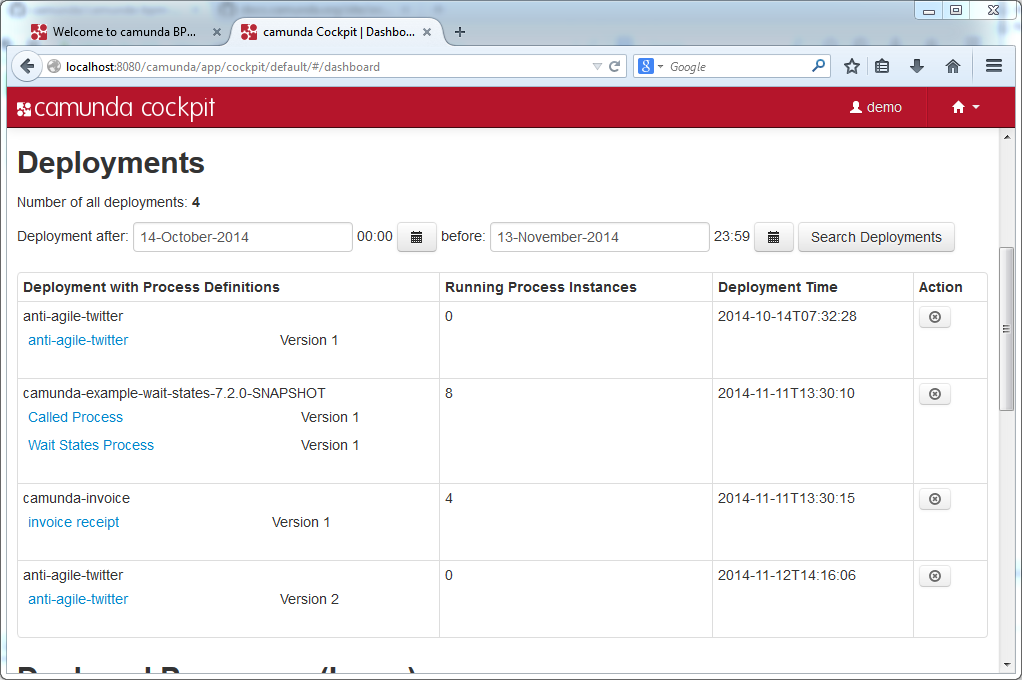
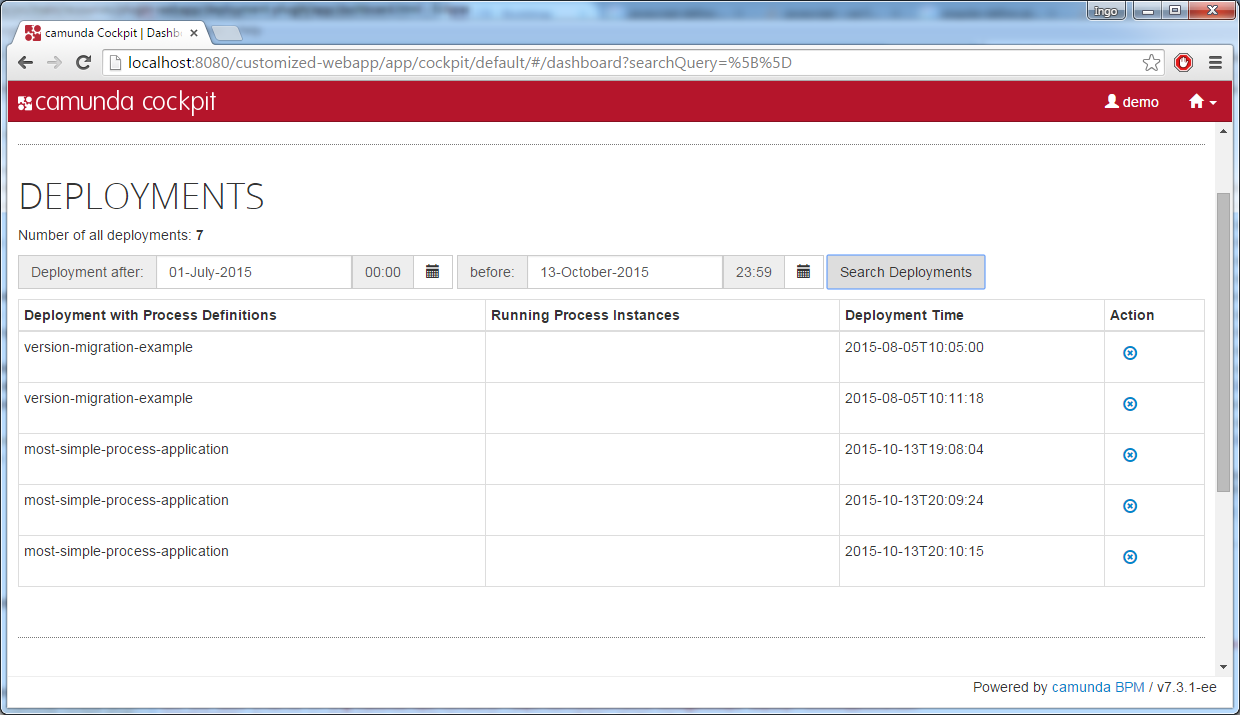
migrate to camunda 7.3

diff --git a/cockpit-plugin-deployments/src/main/resources/plugin-webapp/deployment-plugin/app/dashboard.html b/cockpit-plugin-deployments/src/main/resources/plugin-webapp/deployment-plugin/app/dashboard.html
@@ -3,23 +3,29 @@
     <p>Number of all deployments: <b>{{deploymentCounter.count}}</b>
     </p>
     <form class="form-inline" ng-submit="findDeployments();">
-        <div class="control-group">
-           <p class="input-group">
-           Deployment after: 
-            <input type="text" class="form-control" placeholder="deployed after" datepicker-popup="{{format}}" ng-model="deployedAfter" is-open="openedDeployedAfter" datepicker-options="dateOptions" date-disabled="disabled(date, mode)" close-text="Close" />
-              00:00 <span class="input-group-btn">
-                <button type="button" class="btn btn-default" ng-click="open($event, 'openedDeployedAfter')"><i class="icon-calendar"></i></button>
-              </span>
-            before: 
-            <input type="text" class="form-control" placeholder="deployed before" datepicker-popup="{{format}}" ng-model="deployedBefore" is-open="openedDeployedBefore" datepicker-options="dateOptions" date-disabled="disabled(date, mode)" close-text="Close" />
-              23:59 <span class="input-group-btn">
-                <button type="button" class="btn btn-default" ng-click="open($event, 'openedDeployedBefore')"><i class="icon-calendar"></i></button>
-              </span>
-            <button type="submit" name="Search" class="btn">Search Deployments</button>
-          </p>
-        </div>
+      <div class="input-group">
+        <span class="input-group-addon">Deployment after:</span>
+        <input type="text" class="form-control" placeholder="deployed after" datepicker-popup="{{format}}" ng-model="deployedAfter" is-open="openedDeployedAfter" datepicker-options="dateOptions" date-disabled="disabled(date, mode)" close-text="Close" />
+        <span class="input-group-addon ng-scope">00:00</span> 
+        <span class="input-group-btn ng-scope">
+          <button type="button" class="btn btn-default" ng-click="open($event, 'openedDeployedAfter')"><span class="glyphicon glyphicon-calendar" aria-hidden="true"></span></button>
+        </span>
+      </div>
+      <div class="input-group">
+        <span class="input-group-addon">before:</span> 
+        <input type="text" class="form-control" placeholder="deployed before" datepicker-popup="{{format}}" ng-model="deployedBefore" is-open="openedDeployedBefore" datepicker-options="dateOptions" date-disabled="disabled(date, mode)" close-text="Close" />
+        <span class="input-group-addon">23:59</span> 
+        <span class="input-group-btn">
+          <button type="button" class="btn btn-default" ng-click="open($event, 'openedDeployedBefore')"><span class="glyphicon glyphicon-calendar" aria-hidden="true"></span></button>
+        </span>
+      </div>
+      <div class="input-group">
+        <span class="input-group-btn">
+          <button type="submit" name="Search" class="btn">Search Deployments</button>
+        </span>
+      </div>
     </form>
-    
+  <p>
 <style>.table-no-border>thead>tr>th, 
 .table-no-border>tbody>tr>th, 
 .table-no-border>tfoot>tr>th, 
@@ -60,7 +66,7 @@
             ng-model="deployment"
             tooltip-placement="left"
             tooltip="Delete Deployment">
-            <i class="icon-remove-circle"></i>
+            <span class="glyphicon glyphicon-remove-circle" aria-hidden="true"></span>
           </a>
         </td>
       </tr>

diff --git a/cockpit-plugin-deployments/src/main/resources/plugin-webapp/deployment-plugin/app/plugin.js b/cockpit-plugin-deployments/src/main/resources/plugin-webapp/deployment-plugin/app/plugin.js
@@ -1,4 +1,6 @@
-ngDefine('cockpit.plugin.deployment-plugin', function(module) {
+define(['angular'], function(angular) {
+
+  var ngModule = angular.module('cockpit.plugin.deployment-plugin', []);
 
   var DeploymentResource = function ($resource, Uri) {
     return $resource(Uri.appUri(
@@ -6,7 +8,7 @@ ngDefine('cockpit.plugin.deployment-plugin', function(module) {
         {deploymentId: '@id', before: '@before', after: '@after'}
     ));
   };
-  module.factory('DeploymentResource', DeploymentResource);
+  ngModule.factory('DeploymentResource', DeploymentResource);
 
   var ProcessInstanceCountResource = function ($resource, Uri) {
     return $resource(Uri.appUri(
@@ -14,7 +16,7 @@ ngDefine('cockpit.plugin.deployment-plugin', function(module) {
         {processDefinitionId: '@processDefinitionId'}
     ));
   };
-  module.factory('ProcessInstanceCountResource', ProcessInstanceCountResource);
+  ngModule.factory('ProcessInstanceCountResource', ProcessInstanceCountResource);
 
   var ProcessDefinitionDeploymentResource = function($resource, Uri) {
     return $resource(Uri.appUri(
@@ -22,7 +24,7 @@ ngDefine('cockpit.plugin.deployment-plugin', function(module) {
         {deploymentId: '@deploymentId'}
     ));
   };
-  module.factory('ProcessDefinitionDeploymentResource', ProcessDefinitionDeploymentResource);
+  ngModule.factory('ProcessDefinitionDeploymentResource', ProcessDefinitionDeploymentResource);
 
   var DashboardController = function($scope, $http, Uri, 
       DeploymentResource, ProcessDefinitionDeploymentResource, ProcessInstanceCountResource, $modal) {
@@ -49,6 +51,8 @@ ngDefine('cockpit.plugin.deployment-plugin', function(module) {
     });
 
     $scope.deployments = null;
+    
+    $scope.listDeployments = 
 
     $scope.findDeployments = function() {
       var deployedAfter = new Date($scope.deployedAfter);
@@ -124,9 +128,9 @@ ngDefine('cockpit.plugin.deployment-plugin', function(module) {
 
   Configuration.$inject = ['ViewsProvider'];
 
-  module.config(Configuration);
+  ngModule.config(Configuration);
 
-  module.controller('DeleteDeploymentController', ['$scope', '$location', 'Notifications', 'DeploymentResource', '$modalInstance', 'deployment', 
+  ngModule.controller('DeleteDeploymentController', ['$scope', '$location', 'Notifications', 'DeploymentResource', '$modalInstance', 'deployment', 
                                            function($scope,   $location,   Notifications,   DeploymentResource,   $modalInstance,   deployment) {
 
     console.log("in delete controller " + deployment.id);
@@ -176,9 +180,10 @@ ngDefine('cockpit.plugin.deployment-plugin', function(module) {
       if (status === DELETE_SUCCESS) {
 //        $location.url('/process-definition/' + processInstance.definitionId);
 //        $location.replace();
+//        $scope.findDeployments(); // is not a function
         console.log("refresh deployments");
       }
     };
-  }]);  return module;
+  }]);  return ngModule;
 
 });
